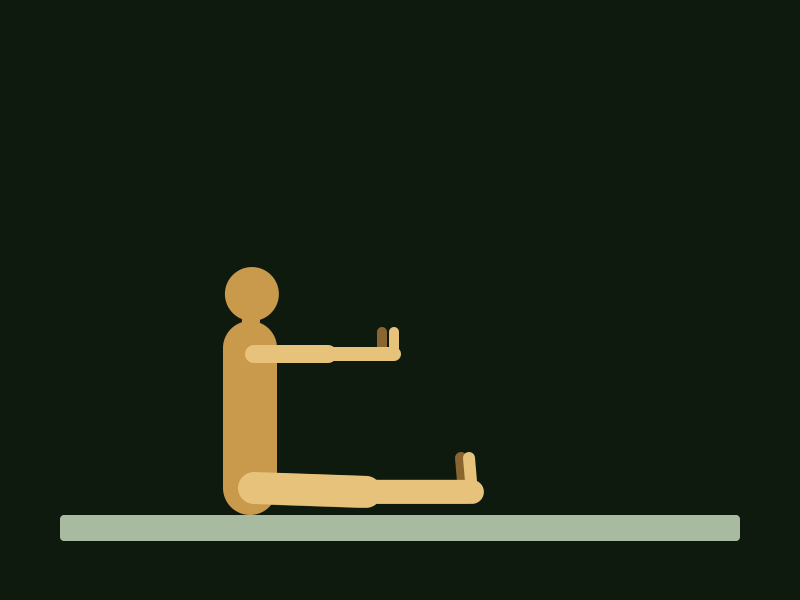
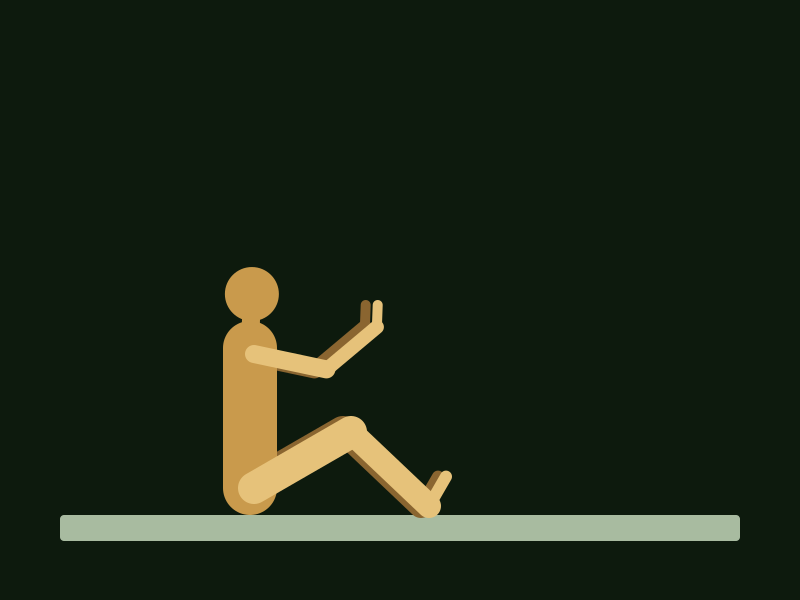
Hipopresivos: Hestia con rodillas y codos doblados, palmas al frente
Claude-Session: https://claude.ai/code/session_01PCN3Y7G9UpL9EZ1qjs6atA

Changed region(s): [[0.3125, 0.69, 0.625, 0.87], [0.3125, 0.48, 0.5, 0.63]]

diff --git a/lib/hipopresivos/practica.ts b/lib/hipopresivos/practica.ts
@@ -123,11 +123,11 @@ export const POSTURAS: Postura[] = [
     nombre: "Hestia",
     nivel: "inicio",
     pasos: [
-      "Sentada en el suelo, piernas estiradas al frente.",
+      "Sentada en el suelo, rodillas dobladas y talones apoyados en el suelo.",
       "Espalda derecha y larga, sin echarte hacia atrás.",
-      "Brazos estirados al frente a la altura de los hombros.",
+      "Brazos al frente con los codos un poco doblados, palmas mirando hacia adelante.",
     ],
-    ojo: "Si la espalda se redondea, dobla un poco las rodillas o siéntate sobre un cojín.",
+    ojo: "Si la espalda se redondea, acerca un poco los talones o siéntate sobre un cojín.",
     figura: "hestia",
   },
   {

diff --git a/prompts-hipopresivos.md b/prompts-hipopresivos.md
@@ -55,7 +55,7 @@ Manda las dos imágenes y el prompt de este documento, y guarda el dibujo en
 | `aura` | Aura: de rodillas, brazos al frente | Empezando |
 | `maya` | Maya: en cuatro apoyos, sobre los antebrazos | Empezando |
 | `gaia` | Gaia: en cuatro apoyos, espalda redondeada | Empezando |
-| `hestia` | Hestia: sentada, piernas estiradas, brazos al frente | Empezando |
+| `hestia` | Hestia: sentada, rodillas dobladas, brazos al frente | Empezando |
 | `demeter` | Deméter: acostada boca arriba, brazos arriba | Empezando |
 | `freya` | Freya: de pie, brazos sobre la cabeza | Ya me sale |
 | `persefone` | Perséfone: estocada baja | Ya me sale |
@@ -100,12 +100,12 @@ Pose: the FIRST attached image is a simple mannequin showing the exact pose; kee
 Style: copy the SECOND attached image exactly. Same flat vector illustration, same woman (hair in a low bun, no facial features, sports top and leggings), same two flat tones: light gold for the arm and leg nearest to us, darker bronze for the far arm and leg. Same very dark forest-green background (#0d1a0d), same pale sage-green exercise mat under her, same size of the figure in the frame. Her top and leggings are the same gold and bronze tones as her skin areas, never black or grey. The figure fills about two thirds of the width, never cut off at the edges. No outlines, no gradients, no shadows, no muscle lines. Anatomically correct: two arms, two legs, five fingers on each hand, every joint bending the natural way, nothing floating. Horizontal 4:3, the whole body visible with empty margin all around. Turn the mannequin of the FIRST image into this woman: keep its pose exactly, do not copy its stick shapes. Absolutely no text, letters, numbers, arrows or watermark.
 ```
 
-### `hestia` — Hestia: Sentada, piernas estiradas, brazos al frente
+### `hestia` — Hestia: Sentada, rodillas dobladas, talones en el suelo, brazos al frente
 
 Adjunta: `maniquies-hipopresivos/hestia.png` + `public/hipopresivos/maya.webp`
 
 ```
-Pose: the FIRST attached image is a simple mannequin showing the exact pose; keep the exact position and angle of every limb, the torso and the head, seen exactly from the side, facing right: she sits on the mat with both legs straight and together in front of her, the feet flexed with the toes pointing up. The torso is upright and tall, vertical, not leaning back. Both arms are stretched straight forward at shoulder height, parallel to the legs; the wrists are bent back so the palms face forward and the fingertips point up. Shoulders low, long neck, looking straight ahead.
+Pose: the FIRST attached image is a simple mannequin showing the exact pose; keep the exact position and angle of every limb, the torso and the head, seen exactly from the side, facing right: she sits on the mat with the knees bent and pointing up, the heels resting on the mat in front of her and the toes pointing up. The torso is upright and tall, vertical, not leaning back. Both arms reach forward with the elbows softly bent; the wrists are bent back so the palms face forward and the fingertips point up, as if gently pushing a wall. Shoulders low, long neck, looking straight ahead.
 
 Style: copy the SECOND attached image exactly. Same flat vector illustration, same woman (hair in a low bun, no facial features, sports top and leggings), same two flat tones: light gold for the arm and leg nearest to us, darker bronze for the far arm and leg. Same very dark forest-green background (#0d1a0d), same pale sage-green exercise mat under her, same size of the figure in the frame. Her top and leggings are the same gold and bronze tones as her skin areas, never black or grey. The figure fills about two thirds of the width, never cut off at the edges. No outlines, no gradients, no shadows, no muscle lines. Anatomically correct: two arms, two legs, five fingers on each hand, every joint bending the natural way, nothing floating. Horizontal 4:3, the whole body visible with empty margin all around. Turn the mannequin of the FIRST image into this woman: keep its pose exactly, do not copy its stick shapes. Absolutely no text, letters, numbers, arrows or watermark.
 ```
